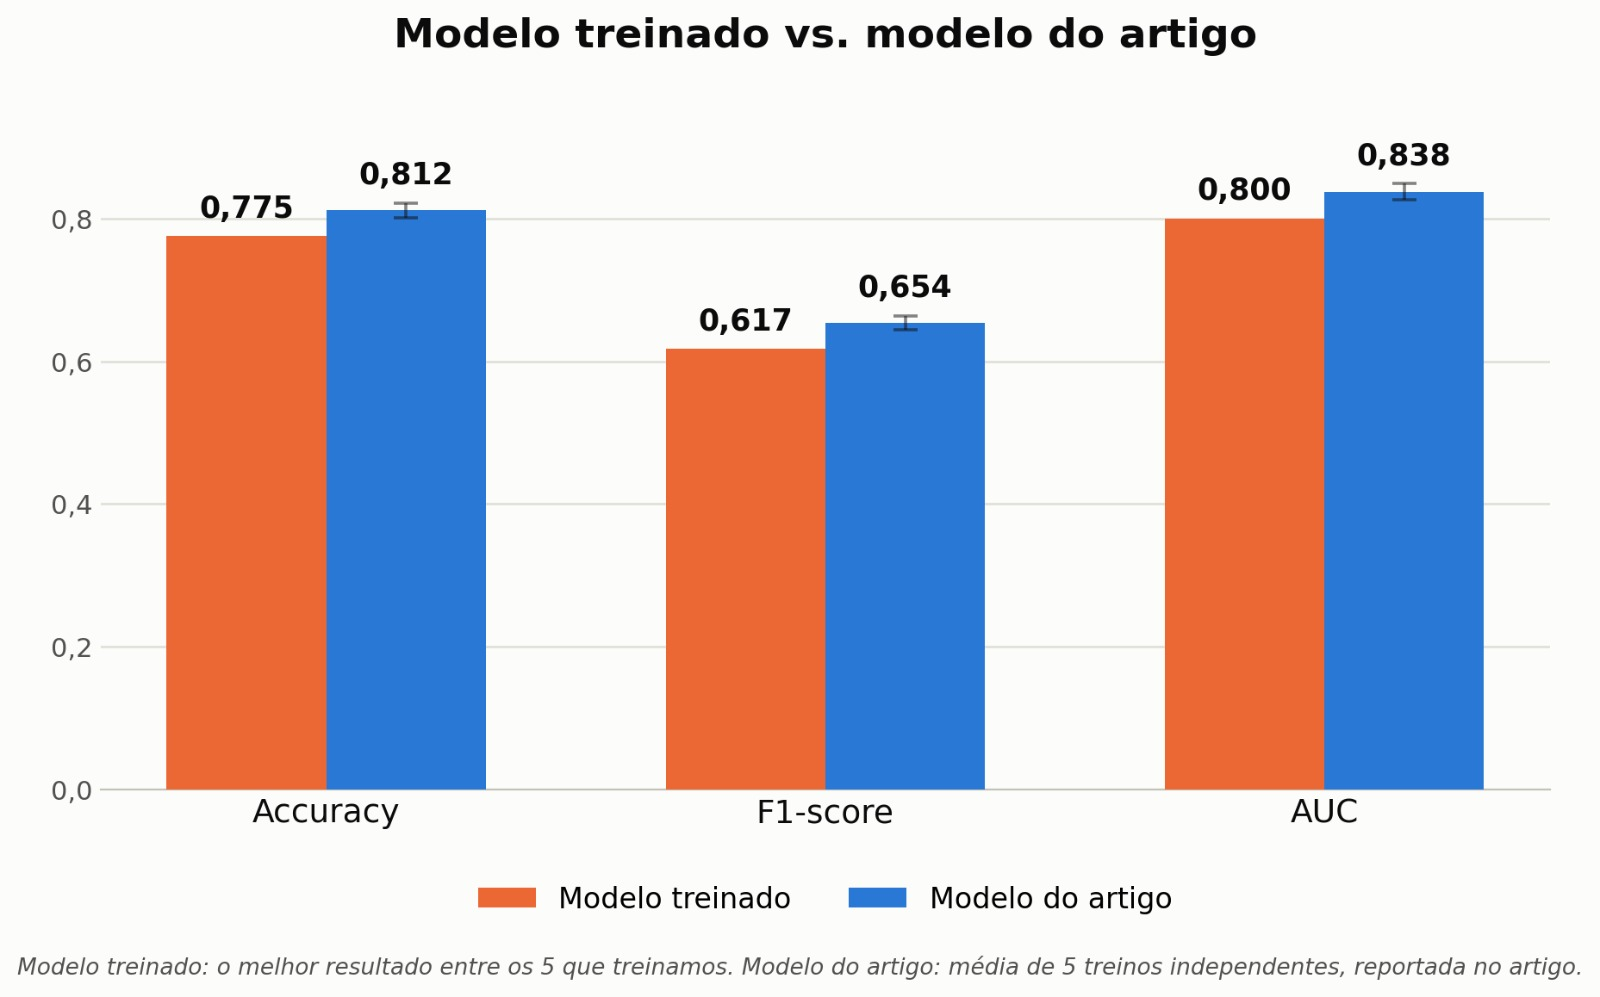
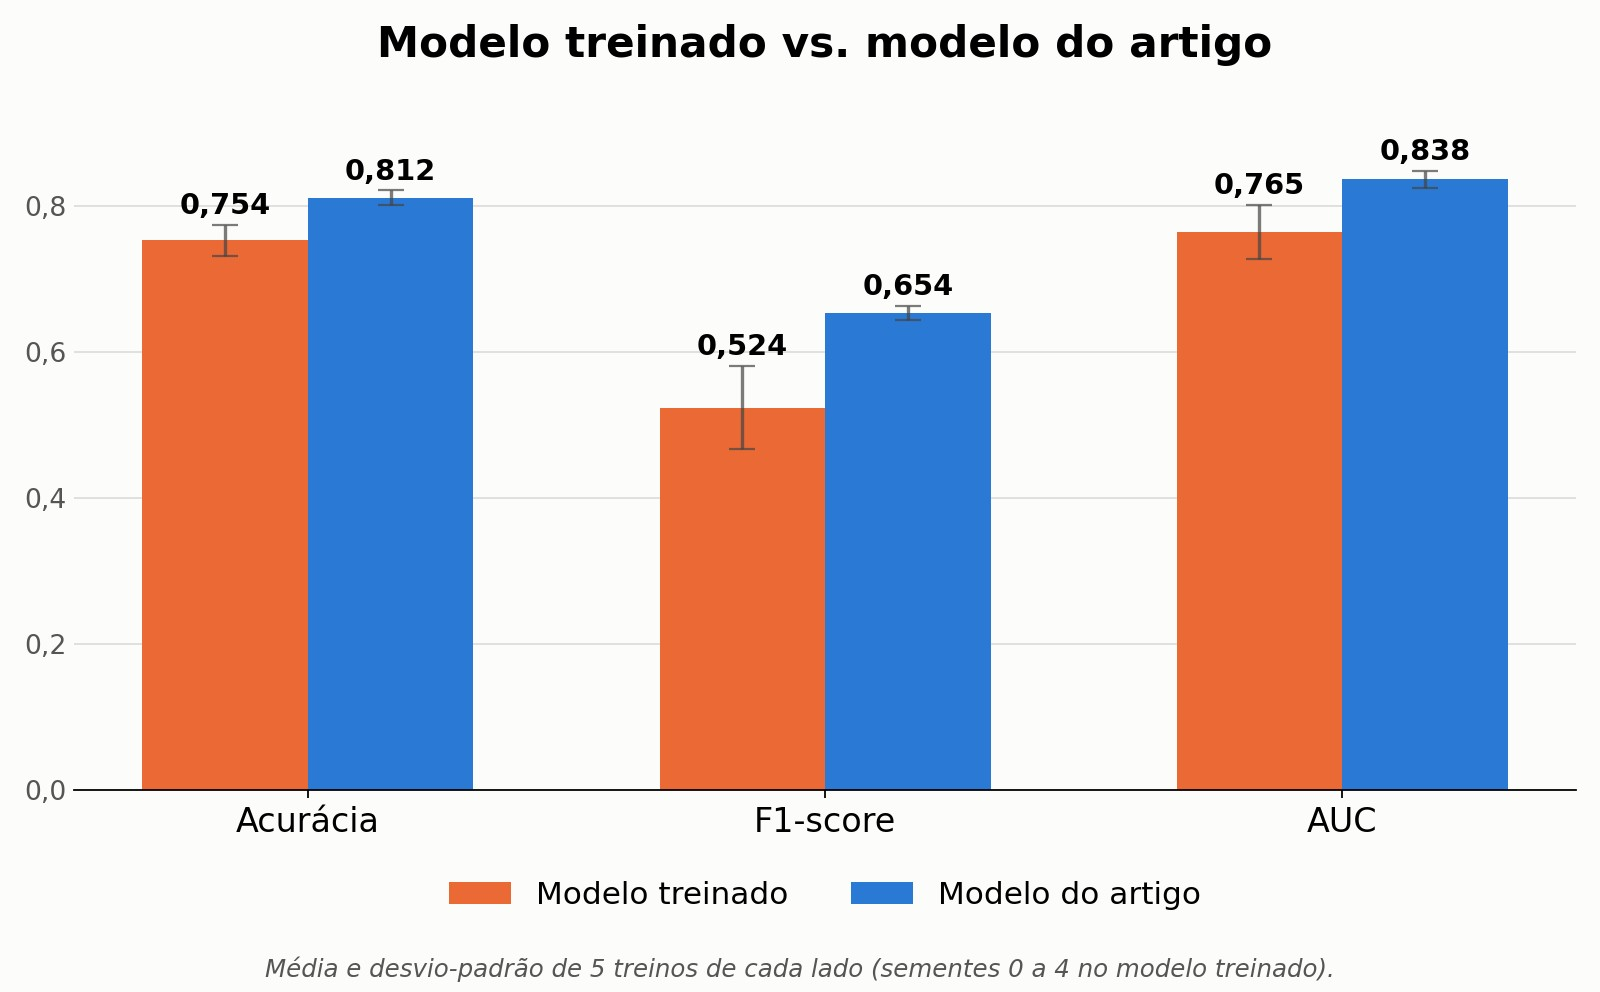
docs(modelo): corrige o registro do treino com os resultados das cinco sementes
Os números, as sementes e a divisão dos dados vêm de summary.json e
result.json do treino de 11 e 12/09. A Tabela 1 passa a comparar média com
média; antes comparava a semente 1 com a média do artigo. Entram também o
resultado por semente, a origem pública do conjunto, o diagnóstico de
sobreajuste e a variação improved. A âncora de Limitações é corrigida, e a
seção Artefato diz que a publicação dos pesos depende do PO.

diff --git a/docs/resultados-modelo-base.md b/docs/resultados-modelo-base.md
@@ -1,16 +1,23 @@
 # Resultados do modelo base de pontuação
 
 Primeira replicação da solução descrita no artigo associado ao conjunto de dados
-fornecido pelo *Product Owner*, treinada em 12/09/2026 por
+fornecido pelo *Product Owner*, treinada entre 11 e 12/09/2026 por
 [Thales Germano Vargas Lima](https://github.com/thalesgvl).
 
-Atende parcialmente a issue #4 — ver [Limitações](#limitacoes).
+Atende parcialmente a issue #4 — ver [Limitações](#limitações).
 
 ## Origem do conjunto de dados
 
 O conjunto de dados foi disponibilizado pelo *Product Owner*, professor Vinícius
-Rispoli, em 31/08/2026. Ele associa, a cada paciente, uma **tripla de imagens**
-— os desenhos do relógio, do hexágono e do cubo — e um **score** único.
+Rispoli, em 31/08/2026. É o conjunto público do artigo *An explainable
+self-attention deep neural network for detecting mild cognitive impairment using
+multi-input digital drawing tasks*, publicado no repositório
+[cccnlab/MCI-multiple-drawings](https://github.com/cccnlab/MCI-multiple-drawings).
+
+Ele associa, a cada um dos 918 pacientes, uma **tripla de imagens** — o desenho do
+relógio, a cópia do cubo e o teste de trilhas — e o **escore MoCA**. Como no
+artigo, o paciente é classificado com comprometimento cognitivo leve (CCL) quando
+o MoCA é menor que 25.
 
 O conjunto **não contém** dados de pressão, inclinação, velocidade ou posição da
 caneta. Na reunião de 31/08 o *Product Owner* confirmou que a análise do traçado
@@ -18,9 +25,11 @@ em tempo real está fora do escopo do projeto.
 
 ## Abordagem
 
-Seguiu-se a arquitetura do artigo: três redes convolucionais extraem
-características de cada uma das três imagens; as características são combinadas
-por um mecanismo de atenção; a saída é o score.
+Seguiu-se a arquitetura do artigo: três redes convolucionais VGG16, pré-treinadas
+no ImageNet, extraem características de cada uma das três imagens; as
+características são combinadas por três camadas de autoatenção; a saída é a
+probabilidade de o paciente ter CCL. O treino usa o rótulo suave do artigo,
+y = 1 − sigmoide(MoCA − 24,5).
 
 Na mesma reunião, o *Product Owner* propôs uma **segunda estratégia**, ainda não
 experimentada: como os desenhos são em escala de cinza, combiná-los em uma única
@@ -29,61 +38,81 @@ de grande porte com pesos pré-treinados. Fica registrada como próximo passo.
 
 ## Resultados
 
-Foram realizados cinco treinos.
+Foram realizados cinco treinos com a configuração do artigo, um para cada semente
+aleatória (0 a 4). Cada semente gera uma divisão estratificada de 70/15/15: 642
+pacientes para treino, 138 para validação e 138 para teste (40 com CCL e 98
+saudáveis), sem paciente repetido entre os conjuntos. Cada treino tem 100 épocas, e
+o modelo avaliado é o da última época, como no artigo.
 
-![Comparação entre o modelo treinado e o modelo do artigo, nas métricas de acurácia, F1-score e AUC](assets/comparativo-metricas-modelo-base.jpeg)
+![Comparação entre o modelo treinado e o modelo do artigo, nas métricas de acurácia, F1-score e AUC, com média e desvio-padrão de cinco treinos de cada lado](assets/comparativo-metricas-modelo-base.jpeg)
 
-**Tabela 1:** Modelo treinado frente ao modelo do artigo
+**Tabela 1:** Modelo treinado frente ao modelo do artigo (média ± desvio-padrão de cinco treinos)
 
 | Métrica | Modelo treinado | Modelo do artigo | Diferença |
 |---------|:---------------:|:----------------:|:---------:|
-| Acurácia | 0,775 | 0,812 | −0,037 |
-| F1-score | 0,617 | 0,654 | −0,037 |
-| AUC | 0,800 | 0,838 | −0,038 |
+| Acurácia | 0,754 ± 0,021 | 0,812 ± 0,010 | −0,058 |
+| F1-score | 0,524 ± 0,057 | 0,654 ± 0,010 | −0,130 |
+| AUC | 0,765 ± 0,037 | 0,838 ± 0,012 | −0,073 |
+
+**Fonte:** [Thales Germano Vargas Lima](https://github.com/thalesgvl), 2026; modelo do artigo: Tabela 1 do artigo, modelo proposto.
+
+**Tabela 2:** Resultado de cada treino, no conjunto de teste
+
+| Semente | Acurácia | F1-score | AUC |
+|:-------:|:--------:|:--------:|:---:|
+| 0 | 0,739 | 0,486 | 0,722 |
+| 1 | 0,775 | 0,617 | 0,800 |
+| 2 | 0,732 | 0,448 | 0,738 |
+| 3 | 0,739 | 0,538 | 0,747 |
+| 4 | 0,783 | 0,531 | 0,818 |
 
 **Fonte:** [Thales Germano Vargas Lima](https://github.com/thalesgvl), 2026
 
 ### Como ler esta comparação
 
-As duas colunas **não foram apuradas da mesma forma**, e a diferença importa:
+As duas colunas da Tabela 1 agora são apuradas da mesma forma: a média de cinco
+treinos com divisões diferentes dos dados. A versão anterior deste documento
+comparava o treino da semente 1, o de melhor F1-score, com a média do artigo, o que
+favorecia o modelo treinado.
 
-- **Modelo treinado** — o *melhor* dos cinco treinos realizados.
-- **Modelo do artigo** — a *média* de cinco treinos independentes, conforme
-  reportado pelos autores.
+O modelo treinado fica abaixo do artigo nas três métricas, e a distância é maior
+que a variação entre os treinos do próprio artigo. Isso indica uma diferença de
+método, e não só sementes desfavoráveis.
 
-Comparar o melhor resultado de um lado com a média do outro favorece o modelo
-treinado. Ainda assim ele fica abaixo nas três métricas, o que significa que a
-distância real entre a replicação e o artigo é **maior** do que a tabela indica.
+A causa mais provável é o **sobreajuste**: em todos os cinco treinos, o melhor AUC
+de validação aparece entre as épocas 7 e 17, e depois a validação para de melhorar
+enquanto o erro de treino continua caindo. As três VGG16 são ajustadas por inteiro
+(cerca de 46 milhões de parâmetros) com só 642 pacientes de treino. O artigo não
+diz se as VGG16 foram congeladas ou ajustadas.
 
-Para uma comparação justa, o próximo ciclo deve reportar a **média e o desvio
-dos cinco treinos** deste lado também.
+Também foi treinada uma variação com ajustes além do artigo (amostragem balanceada
+por classe, escolha do modelo pelo melhor AUC de validação, AdamW com agenda de
+taxa de aprendizado, aumento de dados, *embeddings* posicionais e quatro cabeças de
+atenção). Ela ficou abaixo da configuração do artigo nas três métricas:
+0,736 ± 0,023 de acurácia, 0,450 ± 0,102 de F1-score e 0,754 ± 0,045 de AUC.
 
 ## Limitações
 
 Este registro documenta o resultado, mas ainda **não torna o treino
-reproduzível**:
+reproduzível** a partir deste repositório: o **script de treino ainda não está
+aqui**. Sem ele, não é possível reexecutar o experimento nem auditar os
+hiperparâmetros. As sementes, a divisão dos dados e o critério de escolha do
+modelo estão registrados acima.
 
-- O **script de treino não está neste repositório**. Sem ele, não é possível
-  reexecutar o experimento nem auditar hiperparâmetros, divisão dos dados ou
-  critério de seleção do melhor treino.
-- Não há registro da divisão entre treino, validação e teste, nem da semente
-  aleatória utilizada.
-- A média e o desvio dos cinco treinos não foram registrados — apenas o melhor
-  resultado.
-
-Enquanto esses pontos não forem resolvidos, a issue #4 permanece parcialmente
-atendida.
+Enquanto o script não for publicado, a issue #4 permanece parcialmente atendida.
 
 ## Artefato
 
-O arquivo de pesos tem aproximadamente 177 MB e, por isso, não é versionado
-diretamente neste repositório — o GitHub recusa arquivos acima de 100 MB. Ele é
-distribuído como anexo de *release*.
+O arquivo de pesos tem cerca de 185 MB e, por isso, não é versionado diretamente
+neste repositório — o GitHub recusa arquivos acima de 100 MB. Ele será anexado a
+uma *release* depois que o *Product Owner* autorizar a publicação: o repositório de
+origem dos dados não declara licença, e os pesos são derivados deles.
 
 ## Próximos passos
 
 1. Publicar o script de treino neste repositório.
-2. Reportar média e desvio dos cinco treinos, substituindo o melhor resultado.
+2. Treinar com as VGG16 congeladas, ajustando só a autoatenção e o classificador,
+   para atacar o sobreajuste com uma mudança isolada.
 3. Experimentar a estratégia de três canais proposta pelo *Product Owner*.
 4. Exportar o modelo para execução no Android sem internet (issue #6).
 
@@ -92,3 +121,4 @@ distribuído como anexo de *release*.
 | Versão | Data | Descrição | Autor | Revisor |
 |:------:|------|-----------|-------|---------|
 | `1.0` | 20/09/2026 | Registro dos resultados do primeiro treino | [Thales Germano Vargas Lima](https://github.com/thalesgvl) | [Vitor Carvalho Pereira](https://github.com/vcpVitor) |
+| `1.1` | 04/10/2026 | Correção com os dados registrados do treino: média e desvio dos cinco treinos, resultado por semente, divisão dos dados, origem do conjunto e variação `improved` | [Thales Germano Vargas Lima](https://github.com/thalesgvl) | A definir |
